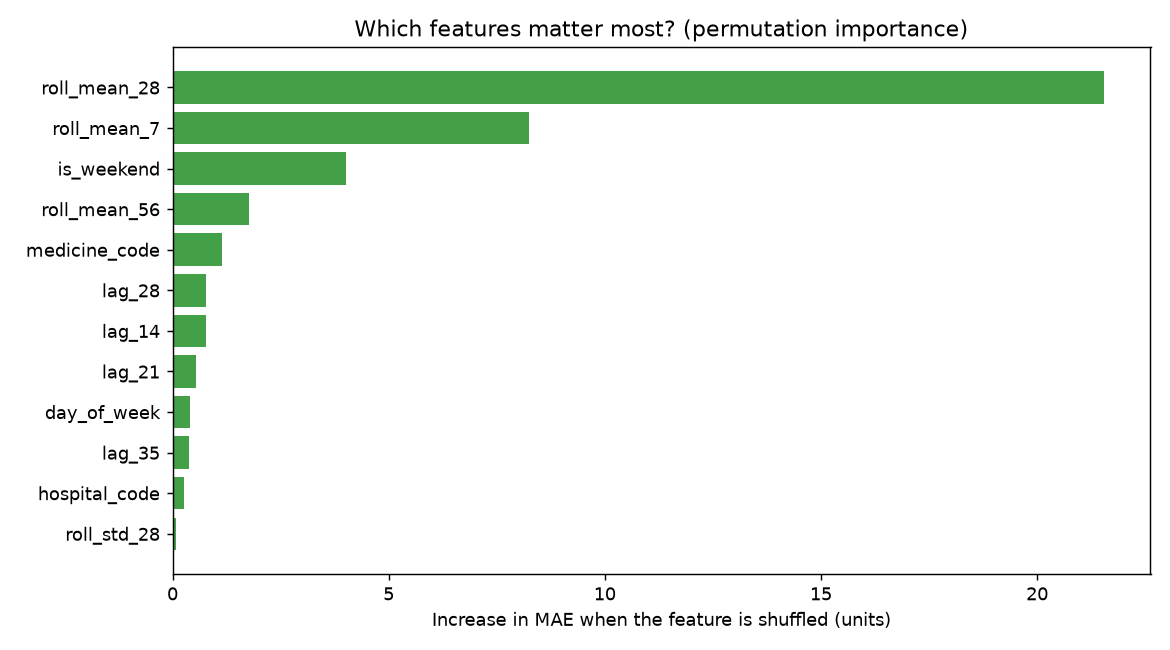
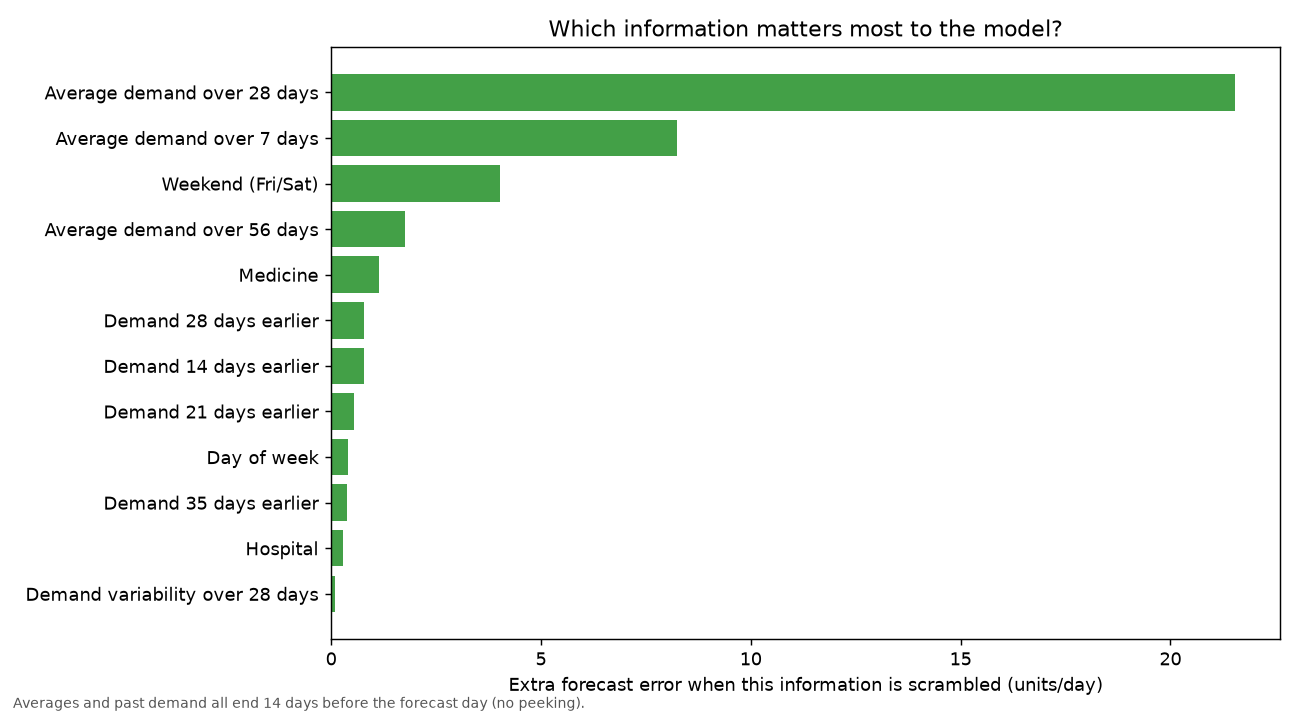
Use readable feature names in the importance chart

Changed region(s): [[0.0, 0.0308, 1.0, 1.0]]

diff --git a/src/demand_forecast/train.py b/src/demand_forecast/train.py
@@ -20,7 +20,13 @@ import pandas as pd  # noqa: E402
 from sklearn.inspection import permutation_importance  # noqa: E402
 
 from demand_forecast.evaluate import compare_models, forecast_origins, metrics  # noqa: E402
-from demand_forecast.features import FEATURE_COLUMNS, HORIZON, MAX_LOOKBACK, make_features  # noqa: E402
+from demand_forecast.features import (  # noqa: E402
+    FEATURE_COLUMNS,
+    FEATURE_LABELS,
+    HORIZON,
+    MAX_LOOKBACK,
+    make_features,
+)
 from demand_forecast.forecast import ModelBundle  # noqa: E402
 from demand_forecast.models import MODEL_FACTORIES  # noqa: E402
 from demand_forecast.uncertainty import fit_uncertainty, safety_stock_coverage  # noqa: E402
@@ -109,10 +115,17 @@ def _plot_importance(model, feats: pd.DataFrame, path: Path) -> None:
         scoring="neg_mean_absolute_error",
     )
     imp = pd.Series(result.importances_mean, index=FEATURE_COLUMNS).sort_values().tail(12)
-    fig, ax = plt.subplots(figsize=(9, 5))
-    ax.barh(imp.index, imp.values, color="#43a047")
-    ax.set_xlabel("Increase in MAE when the feature is shuffled (units)")
-    ax.set_title("Which features matter most? (permutation importance)")
+    fig, ax = plt.subplots(figsize=(10, 5.5))
+    ax.barh([FEATURE_LABELS[f] for f in imp.index], imp.values, color="#43a047")
+    ax.set_xlabel("Extra forecast error when this information is scrambled (units/day)")
+    ax.set_title("Which information matters most to the model?")
+    fig.text(
+        0.01,
+        0.01,
+        f"Averages and past demand all end {HORIZON} days before the forecast day (no peeking).",
+        fontsize=8,
+        color="#555555",
+    )
     fig.tight_layout()
     fig.savefig(path, dpi=130)
     plt.close(fig)

diff --git a/src/demand_forecast/features.py b/src/demand_forecast/features.py
@@ -30,6 +30,22 @@ HISTORY_FEATURES = (
 )
 FEATURE_COLUMNS = CATEGORICAL_FEATURES + CALENDAR_FEATURES + HISTORY_FEATURES
 
+# Plain-English names for charts. History windows end HORIZON days before the forecast day.
+FEATURE_LABELS = {
+    "hospital_code": "Hospital",
+    "medicine_code": "Medicine",
+    "category_code": "Medicine category",
+    "day_of_week": "Day of week",
+    "is_weekend": "Weekend (Fri/Sat)",
+    "month": "Month",
+    "doy_sin": "Time of year (sine)",
+    "doy_cos": "Time of year (cosine)",
+    "is_ramadan": "Ramadan",
+    **{f"lag_{k}": f"Demand {k} days earlier" for k in LAGS},
+    **{f"roll_mean_{w}": f"Average demand over {w} days" for w in WINDOWS},
+    "roll_std_28": "Demand variability over 28 days",
+}
+
 
 def add_calendar_features(df: pd.DataFrame) -> pd.DataFrame:
     """Add day-of-week, weekend, month, cyclical day-of-year and Ramadan flags."""

diff --git a/tests/test_features.py b/tests/test_features.py
@@ -8,7 +8,7 @@ import numpy as np
 import pandas as pd
 import pytest
 
-from demand_forecast.features import FEATURE_COLUMNS, HORIZON, make_features
+from demand_forecast.features import FEATURE_COLUMNS, FEATURE_LABELS, HORIZON, make_features
 
 
 def one_series(values: list[int], start=dt.date(2025, 1, 1)) -> pd.DataFrame:
@@ -114,3 +114,9 @@ def test_duplicate_days_are_rejected():
 
     with pytest.raises(ValueError, match="consecutive"):
         make_features(df)
+
+
+def test_every_feature_has_a_readable_chart_label():
+    assert set(FEATURE_LABELS) == set(FEATURE_COLUMNS)
+    assert len(set(FEATURE_LABELS.values())) == len(FEATURE_LABELS)  # no two alike
+    assert FEATURE_LABELS["lag_14"] == "Demand 14 days earlier"
